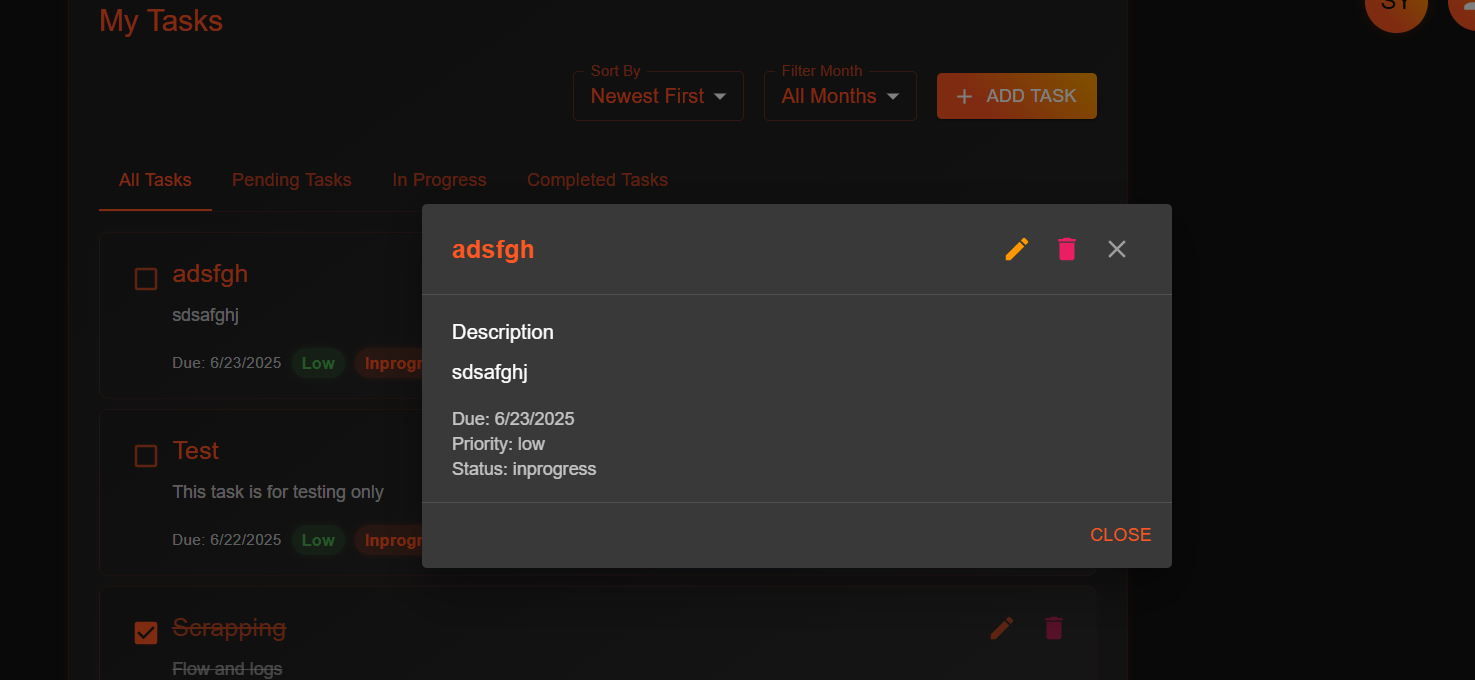
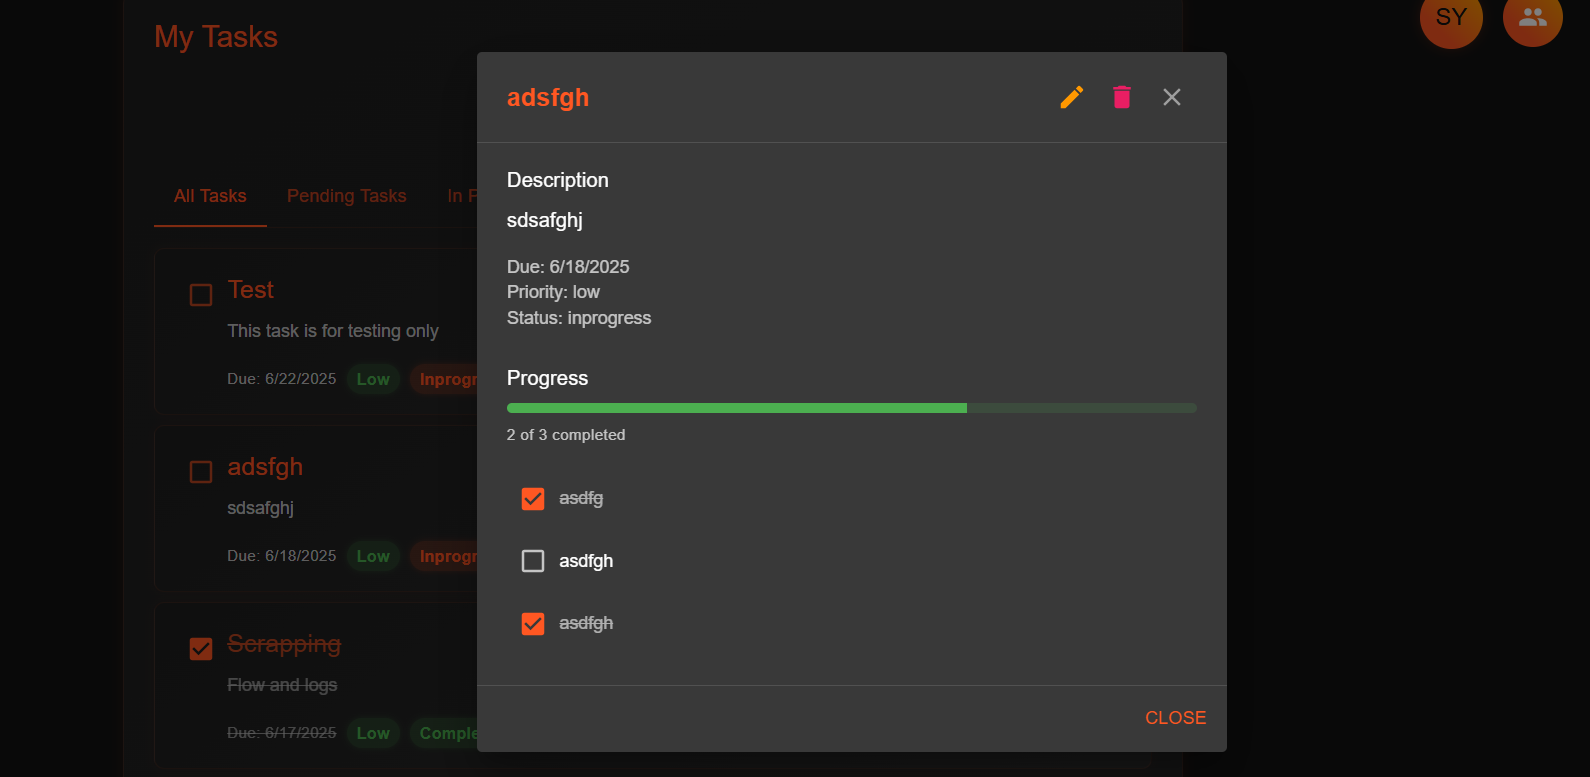
Bug Fixes

diff --git a/frontend/src/components/dashboard/TaskDetailDialog.js b/frontend/src/components/dashboard/TaskDetailDialog.js
@@ -70,7 +70,16 @@ const TaskDetailDialog = ({ open, task, onClose, onEdit, onDelete, onToggleSubta
             <Typography variant="subtitle1" gutterBottom>
               Progress
             </Typography>
-            <LinearProgress variant="determinate" value={progress} sx={{ mb: 1, height: 8, borderRadius: 4 }} />
+            <LinearProgress 
+              variant="determinate" 
+              value={progress} 
+              sx={{ mb: 1, height: 8, borderRadius: 4, 
+                '& .MuiLinearProgress-bar': {
+                  backgroundColor: '#4caf50', // green
+                },
+                backgroundColor: 'rgba(76, 175, 80, 0.15)', // light green background
+              }} 
+            />
             <Typography variant="caption" color="textSecondary" sx={{ mb: 1, display: 'block' }}>
               {completedCount} of {subtasks.length} completed
             </Typography>

diff --git a/frontend/src/components/dashboard/TaskList.js b/frontend/src/components/dashboard/TaskList.js
@@ -44,9 +44,9 @@ const TaskList = ({
 
   return (
     <List>
-      {tasks.map((task) => (
+      {tasks.map((task, idx) => (
         <motion.div
-          key={task.id || task.taskId}
+          key={task.taskId || task.id || idx}
           initial={{ opacity: 0, y: 20 }}
           animate={{ opacity: 1, y: 0 }}
           transition={{ duration: 0.3 }}
@@ -129,7 +129,7 @@ const TaskList = ({
                 <IconButton
                   onClick={(e) => {
                     e.stopPropagation();
-                    onDeleteTask(task.id || task.taskId);
+                    onDeleteTask(task.taskId);
                   }}
                   size="small"
                   sx={{ color: 'rgba(233, 30, 99, 0.7)' }}

diff --git a/frontend/src/pages/Dashboard.js b/frontend/src/pages/Dashboard.js
@@ -233,7 +233,8 @@ const Dashboard = () => {
 
       const payload = {
         ...taskData,
-        due_date: dueDate.toISOString().slice(0, 19).replace('T', ' ')
+        due_date: dueDate.toISOString().slice(0, 19).replace('T', ' '),
+        subtasks: Array.isArray(taskData.subtasks) ? taskData.subtasks : [],
       };
 
       if (taskData.taskId) {
@@ -245,7 +246,7 @@ const Dashboard = () => {
       } else {
         // Create new task
         const response = await apiService.createTask(payload);
-        setTasks([...tasks, { ...payload, id: response.id }]);
+        setTasks([...tasks, { ...payload, id: response, taskId: response }]);
       }
 
       setOpenTaskDialog(false);

diff --git a/backend/src/Users/services/task.service.ts b/backend/src/Users/services/task.service.ts
@@ -3,7 +3,7 @@ import { InjectRepository } from "@nestjs/typeorm";
 import { tasks } from "src/Users/entities/task.entity";
 import { Repository } from "typeorm";
 import { createTaskDto } from "../dtos/taskdto.dto";
-import sanitizeHtml from 'sanitize-html';
+import * as sanitizeHtml from 'sanitize-html';
 
 @Injectable()
 

diff --git a/frontend/src/components/dashboard/TaskDialog.js b/frontend/src/components/dashboard/TaskDialog.js
@@ -82,7 +82,6 @@ const TaskDialog = ({
   };
 
   const handleSave = () => {
-    console.log('localTask:', localTask); // Debug log
     // Validation
     if (!localTask.title || !localTask.description || !localTask.dueDate) {
       setError('Title, description, and due date are required');
